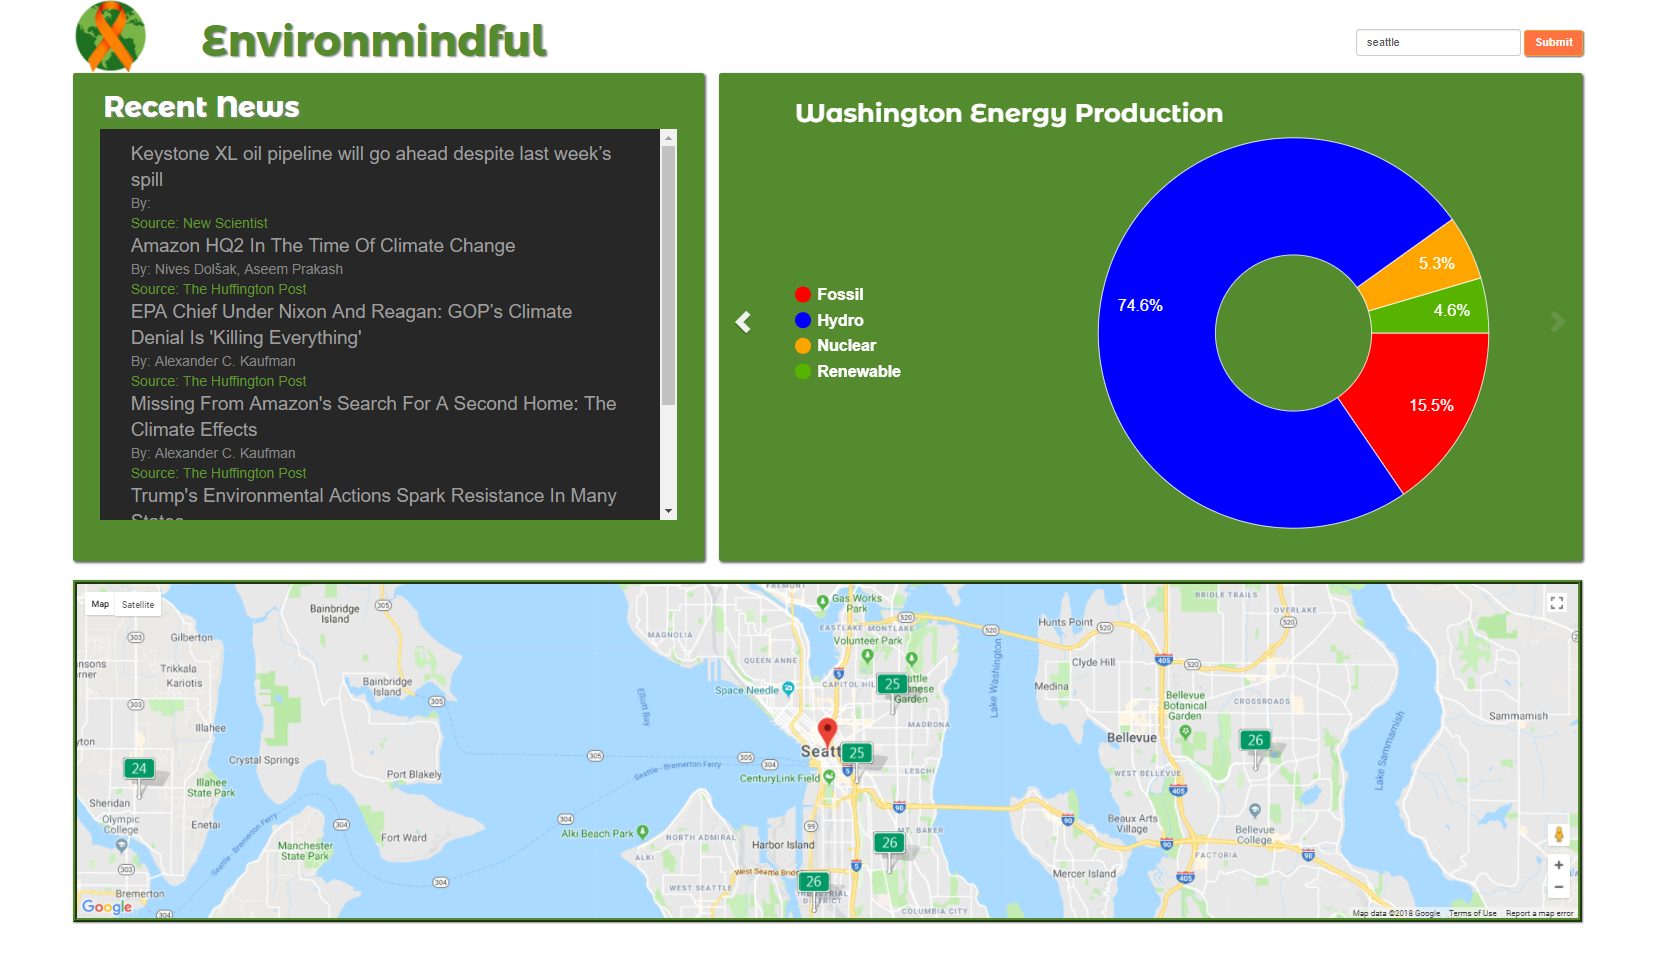
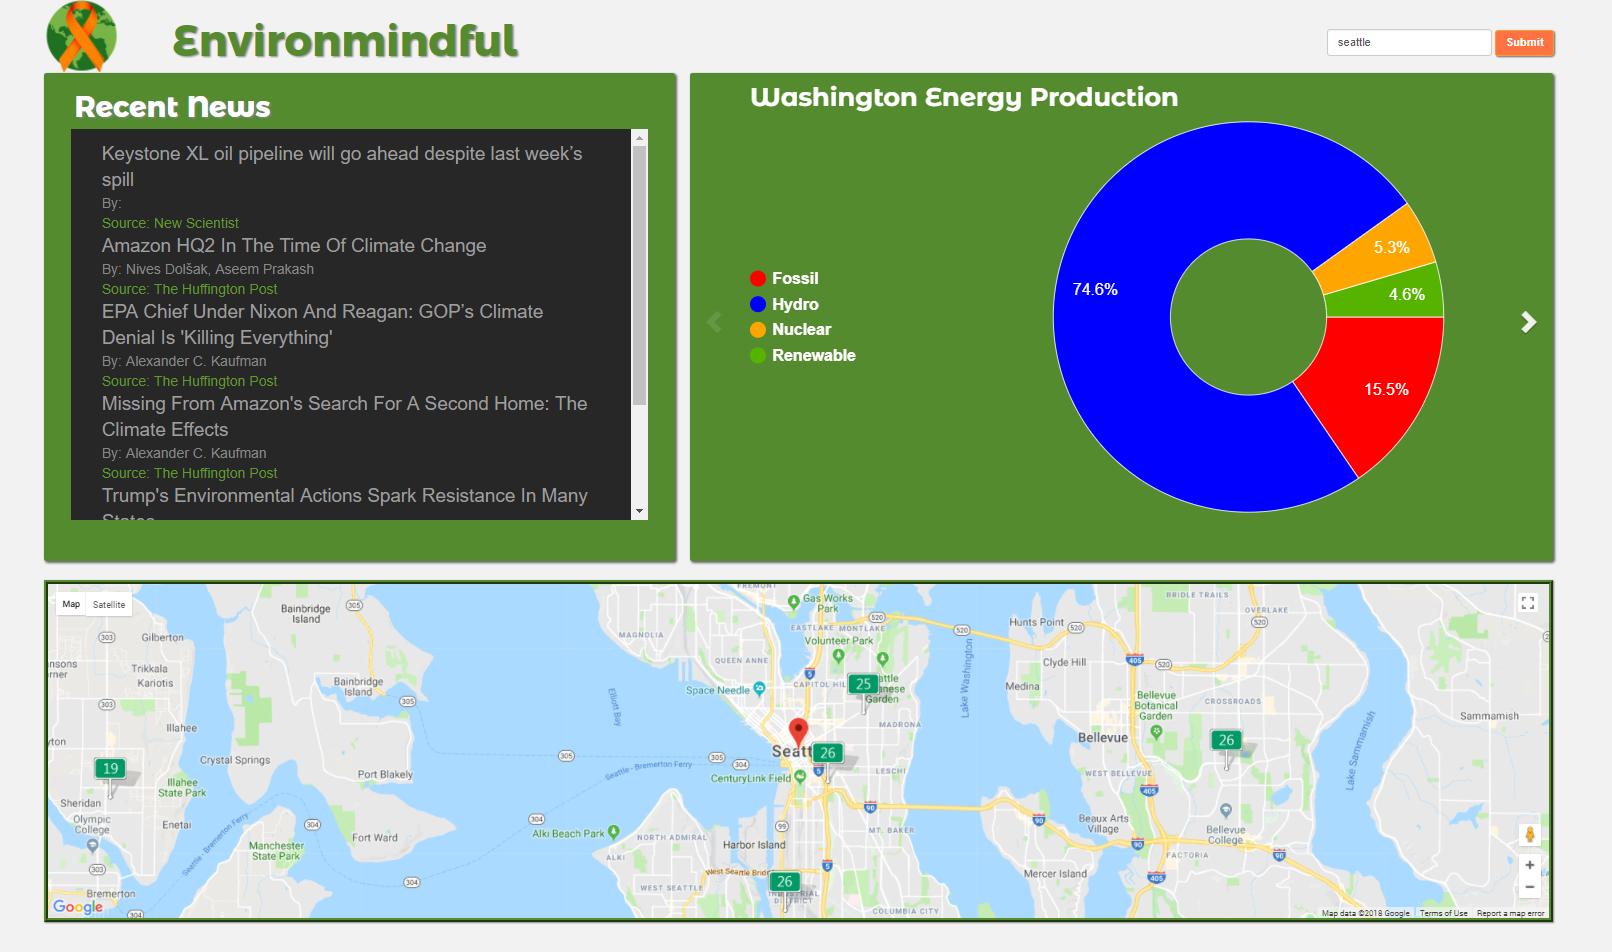
grey background

diff --git a/style.css b/style.css
@@ -5,6 +5,9 @@
 
 /*  General Styles  */
 
+body{
+    background-color: #f2f2f2;
+}
 .title > img {
     width: 70%;
     margin: 1%;
